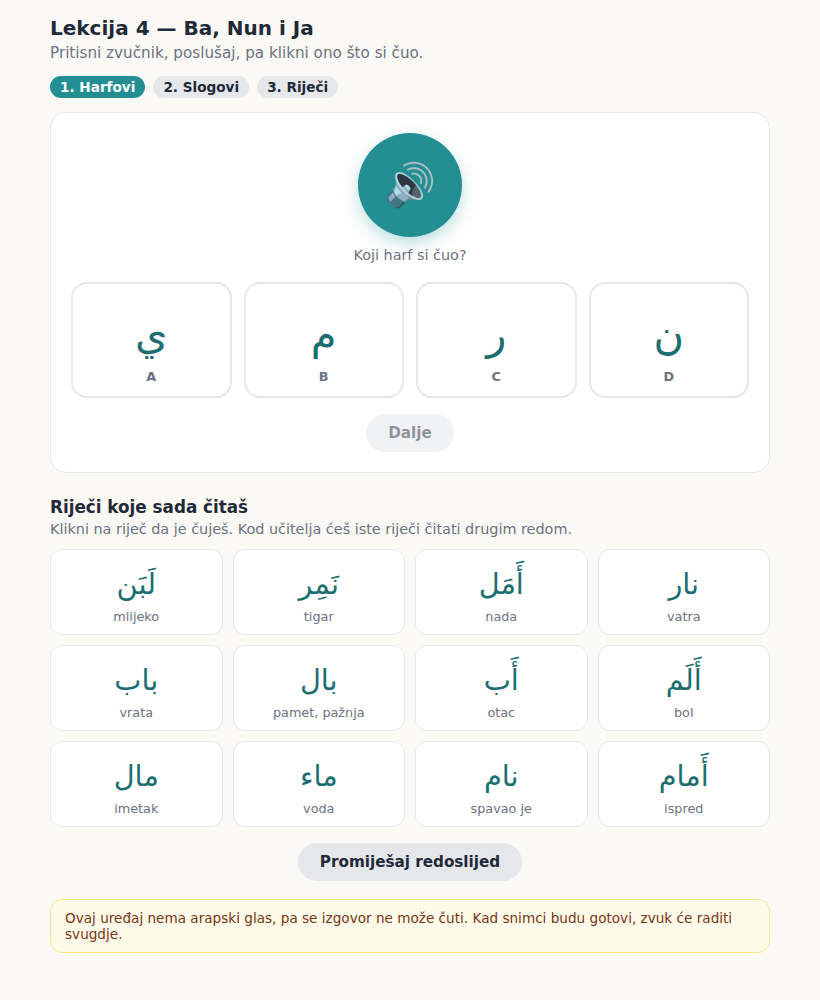
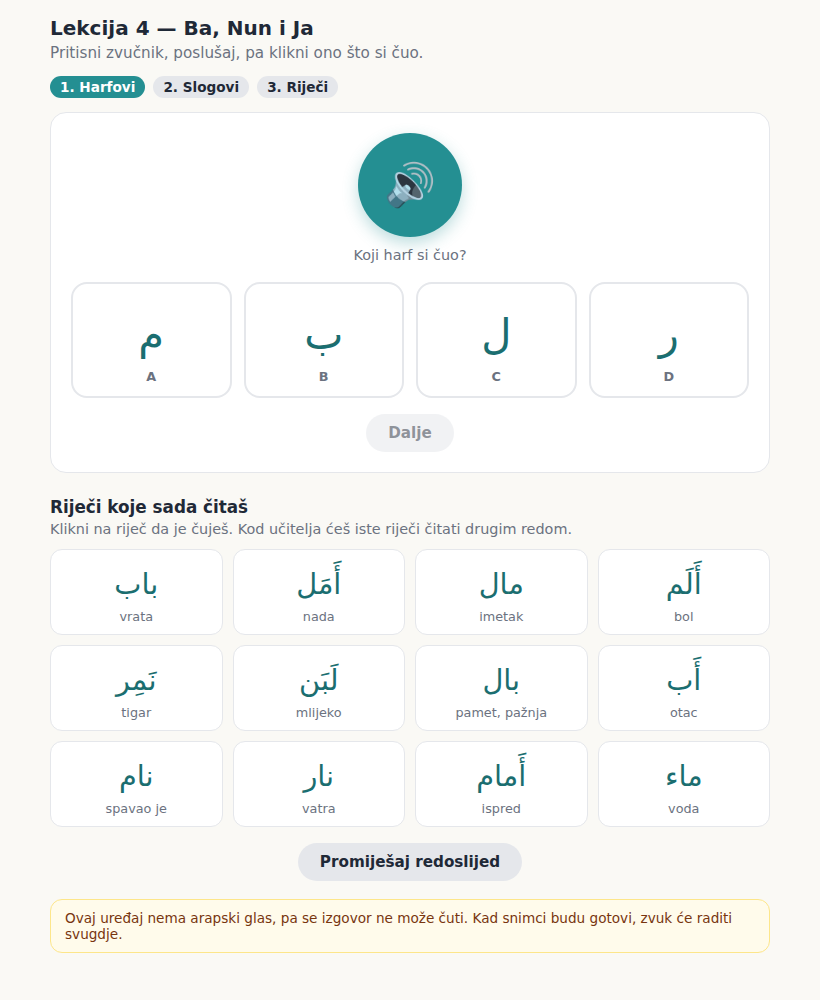
Vježba se može otvoriti i bez servera, prije mergea
Ugrađeni primjer u samoj datoteci bio je kratak uzorak od četiri stavke. Sada
je puna lekcija 4, pa se vježba otvara i kad nema ni servera ni JSON-a — a to
je upravo slučaj kad se gleda preko htmlpreviewa, prije nego išta ode na
deploy.

Provjera je proširena tim scenarijem: stranica se otvori bez ?podaci= i uz
oboren /vjezbe/jezik.js, pa se traži da ponuda i dalje bude četiri, da se vidi
punih dvanaest riječi i da konzola ostane čista.

Claude-Session: https://claude.ai/code/session_01GM373Skx6tX1P1baQCx6Jb

diff --git a/artifacts/mekteb-arapsko-pismo/public/vjezbe/slusaj/slusaj.html b/artifacts/mekteb-arapsko-pismo/public/vjezbe/slusaj/slusaj.html
@@ -21,7 +21,8 @@
     Vježba čita podatke ovim redom:
       1. window.SLUSAJ_PODACI  (ako ga stranica postavi prije ove skripte)
       2. ?podaci=/putanja/do/datoteke.json  (samo s iste domene)
-      3. ugrađeni primjer na dnu ovog fajla (script id="podaci")
+      3. ugrađeni primjer na dnu ovog fajla (script id="podaci") — to je
+         puna lekcija 4, da se vježba može otvoriti i bez servera
     Polja:
       id        – oznaka vježbe, vraća se u događajima
       naslov    – naslov iznad vježbe
@@ -167,7 +168,7 @@
 <!-- Sučelje vježbe na jeziku djeteta (?lang=de). Vidi /vjezbe/jezik.js. -->
 <script src="/vjezbe/jezik.js"></script>
 <script id="podaci" type="application/json">
-{"id":"primjer","naslov":"Primjer","harfovi":[{"zapis":"م","ime":"Mim"},{"zapis":"ب","ime":"Ba"},{"zapis":"ن","ime":"Nun"},{"zapis":"ل","ime":"Lam"}],"slogovi":[{"zapis":"مَ","citanje":"me"},{"zapis":"بِ","citanje":"bi"},{"zapis":"نُ","citanje":"nu"},{"zapis":"لَ","citanje":"le"}],"rijeci":[{"zapis":"باب","citanje":"bab","znacenje":"vrata"},{"zapis":"نار","citanje":"nar","znacenje":"vatra"},{"zapis":"مال","citanje":"mal","znacenje":"imetak"},{"zapis":"لَبَن","citanje":"leben","znacenje":"mlijeko"}]}
+{"id":"opismenjavanje-4","program":"opismenjavanje","lekcija":4,"naslov":"Lekcija 4 — Ba, Nun i Ja","uputa":"Pritisni zvučnik, poslušaj, pa klikni ono što si čuo.","harfovi":[{"zapis":"م","ime":"Mim","glas":"m"},{"zapis":"ر","ime":"Ra","glas":"r"},{"zapis":"ل","ime":"Lam","glas":"l"},{"zapis":"ب","ime":"Ba","glas":"b"},{"zapis":"ن","ime":"Nun","glas":"n"},{"zapis":"ي","ime":"Ja","glas":"j"}],"slogovi":[{"zapis":"مَ","citanje":"me"},{"zapis":"مِ","citanje":"mi"},{"zapis":"مُ","citanje":"mu"},{"zapis":"بَ","citanje":"be"},{"zapis":"بِ","citanje":"bi"},{"zapis":"بُ","citanje":"bu"},{"zapis":"نَ","citanje":"ne"},{"zapis":"نِ","citanje":"ni"},{"zapis":"لَ","citanje":"le"},{"zapis":"رَ","citanje":"re"},{"zapis":"را","citanje":"raa"},{"zapis":"با","citanje":"baa"}],"rijeci":[{"zapis":"أَب","citanje":"eb","znacenje":"otac"},{"zapis":"باب","citanje":"bab","znacenje":"vrata"},{"zapis":"نار","citanje":"nar","znacenje":"vatra"},{"zapis":"ماء","citanje":"maa'","znacenje":"voda"},{"zapis":"مال","citanje":"mal","znacenje":"imetak"},{"zapis":"نام","citanje":"nam","znacenje":"spavao je"},{"zapis":"بال","citanje":"bal","znacenje":"pamet, pažnja"},{"zapis":"لَبَن","citanje":"leben","znacenje":"mlijeko"},{"zapis":"نَمِر","citanje":"nemir","znacenje":"tigar"},{"zapis":"أَمَل","citanje":"emel","znacenje":"nada"},{"zapis":"أَلَم","citanje":"elem","znacenje":"bol"},{"zapis":"أَمام","citanje":"emam","znacenje":"ispred"}]}
 </script>
 <script>
 (function () {
